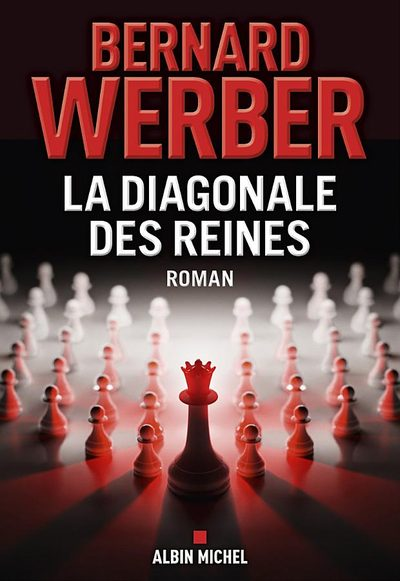
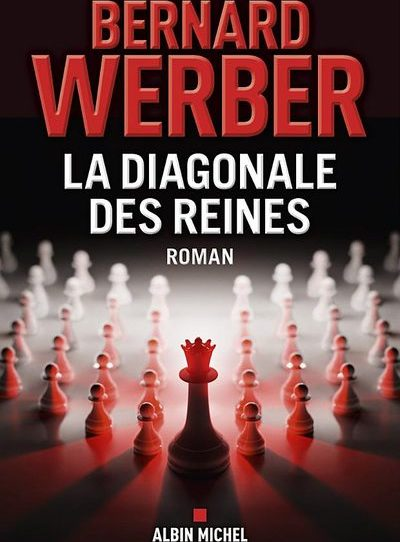
Couvertures : rejet des visuels « à venir », bandes noires retirées
Claude-Session: https://claude.ai/code/session_01VCad8LoVJYXcgLnFa5tFnr

diff --git a/tools/fetch_covers.py b/tools/fetch_covers.py
@@ -6,7 +6,7 @@ pages lisent en premier. Un livre déjà couvert n'est jamais retéléchargé.
 """
 import io, json, os, re, sys, time, urllib.parse
 import requests
-from PIL import Image
+from PIL import Image, ImageChops
 
 ROOT = os.path.dirname(os.path.dirname(os.path.abspath(__file__)))
 OUT = os.path.join(ROOT, "covers")
@@ -75,13 +75,37 @@ def candidates(b):
         urls.append(f"https://covers.openlibrary.org/b/isbn/{isbn}-L.jpg?default=false")
         urls.append(f"https://media.e.leclerc/{isbn}_1?fit=fit&fmt=jpg&qlt=85&wid=600&hei=600")
         urls.append(f"https://ssr.fidelio.ca/Public/img/catalog/cover/{isbn}.jpg")
-        urls.append(("page", f"https://www.placedeslibraires.fr/livre/{isbn}"))
         urls.append(("page", f"https://www.decitre.fr/rechercher/result?q={isbn}"))
+        urls.append(("page", f"https://www.placedeslibraires.fr/livre/{isbn}"))
         urls.append(("lazy", f"isbn:{isbn}"))
     q = b.get("coverQuery") or f"{b.get('title','')} {(b.get('authors') or '').split(',')[0]}"
     urls.append(("lazy", q))
     urls.append(("ol", q))
     return urls
+
+# empreintes d'images génériques (« visuel à venir »…) à refuser
+BAD_HASHES = ["0000000011001000110101001001010011011100111100001100110000000000"]
+
+def dhash(im, n=8):
+    g = im.convert("L").resize((n + 1, n))
+    px = list(g.getdata())
+    return "".join("1" if px[r*(n+1)+c] > px[r*(n+1)+c+1] else "0" for r in range(n) for c in range(n))
+
+def is_placeholder(im):
+    h = dhash(im)
+    return any(sum(a != b for a, b in zip(h, bad)) <= 8 for bad in BAD_HASHES)
+
+def trim(im):
+    """Retire les bandes unies (noires ou blanches) autour de la couverture."""
+    corner = im.getpixel((0, 0))
+    if sum(corner) / 3 > 40:  # seulement les bandes noires (format « letterbox »)
+        return im
+    bg = Image.new(im.mode, im.size, corner)
+    diff = ImageChops.add(ImageChops.difference(im, bg), ImageChops.difference(im, bg), 2.0, -30)
+    box = diff.getbbox()
+    if box and (box[2] - box[0]) > im.size[0] * 0.4 and (box[3] - box[1]) > im.size[1] * 0.4:
+        return im.crop(box)
+    return im
 
 def fetch_image(url):
     try:
@@ -94,7 +118,10 @@ def fetch_image(url):
         # rejette les pixels vides, les vignettes minuscules et les formats non « livre »
         if w < 80 or h < 80 or h < w * 0.5:
             return None
-        im = im.convert("RGB")
+        im = trim(im.convert("RGB"))
+        w, h = im.size
+        if is_placeholder(im):
+            return None
         # rejette les images quasi unies (pages « image non disponible »)
         small = im.resize((24, 24))
         px = list(small.getdata())
@@ -121,6 +148,13 @@ def main():
         path = os.path.join(ROOT, index.pop(bid))
         if os.path.exists(path):
             os.remove(path)
+    for bid, rel in list(index.items()):
+        path = os.path.join(ROOT, rel)
+        try:
+            if is_placeholder(Image.open(path)):
+                os.remove(path); index.pop(bid)
+        except Exception:
+            index.pop(bid, None)
     added, missing = [], []
     for b in books:
         bid = b["id"]

diff --git a/tools/build_mahe.py b/tools/build_mahe.py
@@ -52,7 +52,7 @@ SERIES = {
                 "Azuro et la fée des glaces", "Azuro au royaume des dragons", "Azuro et le défi du Père Noël",
                 "Azuro et la dernière licorne", "Azuro et la sorcière", "Azuro et le château oublié",
                 "Azuro sur la piste de Jippy", "Azuro et l'île fantastique", "Azuro, il faut sauver la Lune !",
-                "Azuro et le cristal chantant", "Azuro, un cadeau magique pour maman", "Azuro et les dragons"],
+                "Azuro et le cristal chantant", "Azuro, un cadeau magique pour maman"],
     ),
     "Bluey": dict(
         qprefix="Bluey", qkey="Hachette",
